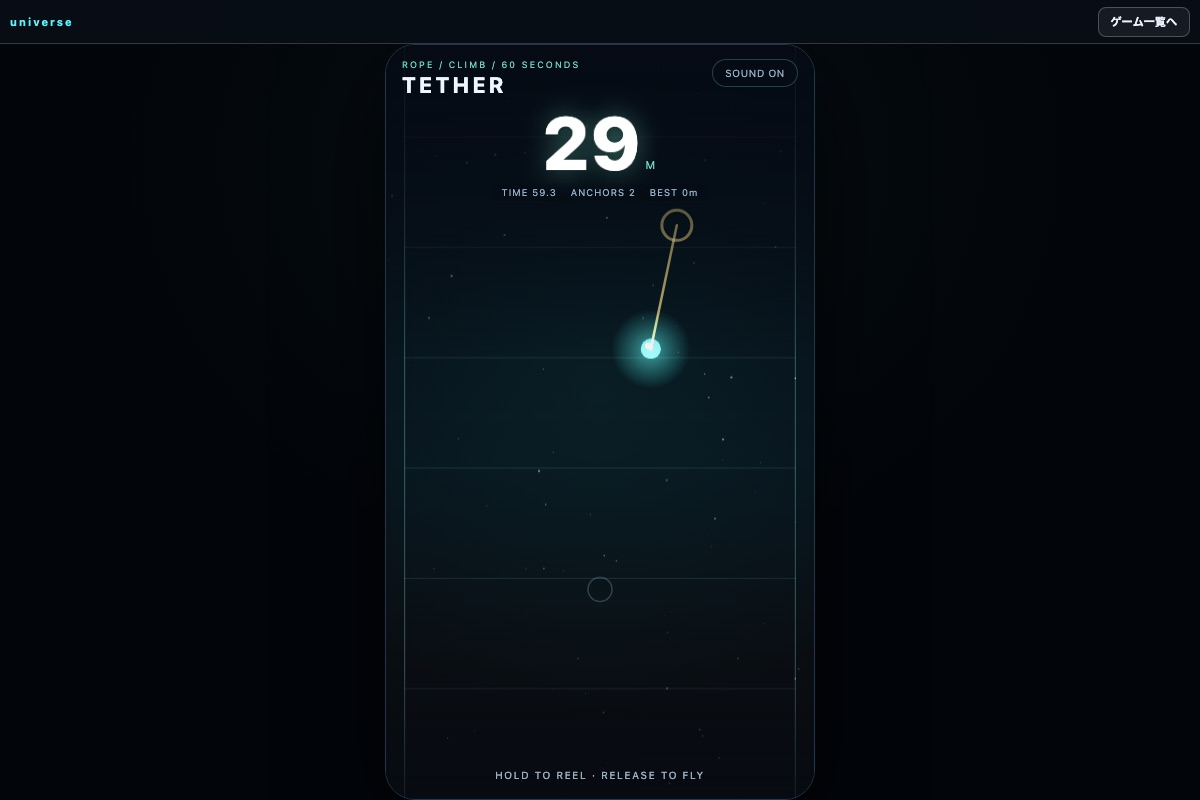
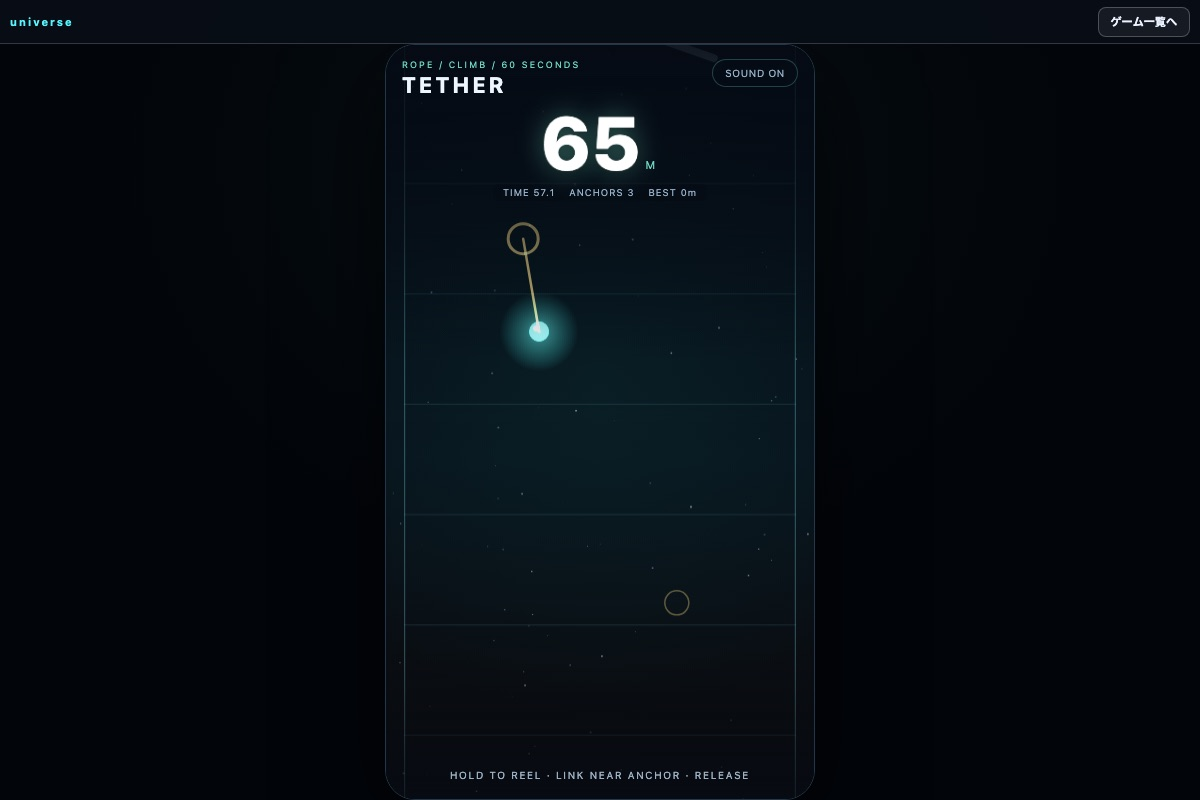
fix: TETHERでホールド中に近くのアンカーへ再リンクできるようにする (#209)

diff --git a/projects/_labs/tether/index.html b/projects/_labs/tether/index.html
@@ -6,7 +6,7 @@
   <meta name="theme-color" content="#050b14" />
   <meta name="description" content="TETHER — hold to reel, release to fly, and climb the tower in 60 seconds." />
   <title>TETHER</title>
-  <link rel="stylesheet" href="style.css?v=20261029-tether3" />
+  <link rel="stylesheet" href="style.css?v=20261030-tether4" />
 </head>
 <body>
   <div id="app">
@@ -29,14 +29,14 @@
         <span id="anchors">ANCHORS 1</span>
         <span id="best">BEST 0</span>
       </div>
-      <p id="hint" class="hint">HOLD TO REEL · RELEASE TO FLY</p>
+      <p id="hint" class="hint">HOLD TO REEL · LINK NEAR ANCHOR · RELEASE</p>
     </div>
 
     <div id="start-overlay" class="overlay visible">
       <div class="start-content">
         <p class="eyebrow">A ONE-BUTTON CLIMB</p>
         <h1>TETHER</h1>
-        <p class="lead">Hold to reel in. Release to fly. Climb the tower before the 60 seconds run out.</p>
+        <p class="lead">Hold near any anchor to link. Keep holding to reel in, then release to fly. Climb the tower before the 60 seconds run out.</p>
         <svg class="start-art" viewBox="0 0 260 180" role="img" aria-label="A ball tethered to anchors">
           <path d="M60 130 L60 55 M160 70 L160 25 M215 145 L215 95" stroke="#2b4a55" stroke-width="2" />
           <circle cx="60" cy="55" r="9" fill="none" stroke="#f4c96b" stroke-width="2" />
@@ -49,7 +49,7 @@
         </svg>
         <button id="btn-start" class="primary big" type="button">START CLIMB</button>
         <button id="btn-sound" class="link-btn" type="button">SOUND: ON</button>
-        <p class="tiny">Hold anywhere · release to launch · best height is saved</p>
+        <p class="tiny">Hold near an anchor to link · release to launch · anchors can be reused</p>
       </div>
     </div>
 
@@ -68,10 +68,10 @@
     </div>
   </div>
 
-  <script src="engine.js?v=20261029-tether3"></script>
-  <script src="audio.js?v=20261029-tether3"></script>
-  <script src="renderer.js?v=20261029-tether3"></script>
-  <script src="game.js?v=20261029-tether3"></script>
+  <script src="engine.js?v=20261030-tether4"></script>
+  <script src="audio.js?v=20261030-tether4"></script>
+  <script src="renderer.js?v=20261030-tether4"></script>
+  <script src="game.js?v=20261030-tether4"></script>
   <script src="../../_shared/game-back.js"></script>
 </body>
 </html>

diff --git a/projects/_labs/tether/engine.js b/projects/_labs/tether/engine.js
@@ -1,7 +1,7 @@
 /* engine.js : TETHER のコアロジック（UI非依存・描画非依存）
  *
  * 縦の塔に浮かぶアンカーへロープでぶら下がり、押して巻き取り、離して飛ぶ。
- * 60秒でどこまで登れるかを競う。アンカーは1回だけ使える。
+ * 60秒でどこまで登れるかを競う。アンカーは何度でも掴み直せる。
  */
 (function (root, factory) {
   'use strict';
@@ -122,7 +122,6 @@
       var bestD = ATTACH_RADIUS;
       for (var i = 0; i < state.anchors.length; i++) {
         var a = state.anchors[i];
-        if (a.used) continue;
         var d = dist(state.player.x, state.player.y, a.x, a.y);
         if (d < bestD) { bestD = d; best = a; }
       }
@@ -135,6 +134,7 @@
 
     function detach() {
       if (!state.tether) return false;
+      var current = state.tether.anchorId;
       state.events.push({ type: 'detach', x: state.player.x, y: state.player.y });
       state.tether = null;
       state.holding = false;
@@ -142,7 +142,7 @@
       var target = null;
       for (var i = 0; i < state.anchors.length; i++) {
         var a = state.anchors[i];
-        if (a.used || a.y <= state.player.y + 40) continue;
+        if (a.id === current || a.y <= state.player.y + 40) continue;
         if (!target || a.y < target.y) target = a;
       }
       if (target) {
@@ -175,6 +175,7 @@
       if (state.phase !== 'playing') return false;
       if (on) {
         state.holding = true;
+        if (!state.tether) attachNearest();
         return true;
       }
       if (state.holding && state.tether) detach();
@@ -213,7 +214,7 @@
         p.vy -= GRAVITY * dt;
         p.x += p.vx * dt;
         p.y += p.vy * dt;
-        attachNearest();
+        if (state.holding) attachNearest();
       }
 
       if (p.x < -WALL_X + p.r) { p.x = -WALL_X + p.r; p.vx = Math.abs(p.vx) * 0.55; }
@@ -252,7 +253,10 @@
 
     function autoStep() {
       if (state.phase !== 'playing') return;
-      if (!state.tether) return;
+      if (!state.tether) {
+        if (!state.holding) setHold(true);
+        return;
+      }
       if (!state.holding) { setHold(true); return; }
       if (state.tether.length <= MIN_LENGTH + 8) setHold(false);
     }

diff --git a/projects/_labs/tether/test-engine.js b/projects/_labs/tether/test-engine.js
@@ -56,6 +56,35 @@ assert(s.tether && s.tether.length < 80, '床救助後に巻き取れない');
 game.reset();
 assert(game.state.phase === 'start' && game.state.tether === null, 'resetでstartに戻らない');
 
+// ホールド中だけ、一定距離内のアンカー（使用済みも含む）に掛かる
+game.start();
+game.state.tether = null;
+game.state.holding = false;
+game.state.attachCooldown = 0;
+game.state.player.x = 70;
+game.state.player.y = 520;
+game.state.player.vx = 0;
+game.state.player.vy = 0;
+game.update(0.1, 1 / 60);
+s = game.getState();
+assert(s.tether === null, 'ホールドしていないのにアンカーへ掛かる');
+game.setHold(true);
+s = game.getState();
+assert(s.tether && s.tether.anchorId === 1, '2個目のアンカーに掛からない');
+assert(s.anchors[1].used === true, '2個目のアンカーがusedにならない');
+game.setHold(false);
+game.state.tether = null;
+game.state.holding = false;
+game.state.attachCooldown = 0;
+game.state.player.x = 0;
+game.state.player.y = 190;
+game.state.player.vx = 0;
+game.state.player.vy = 0;
+game.setHold(true);
+s = game.getState();
+assert(s.tether && s.tether.anchorId === 0, '使用済みアンカーに再び掛からない');
+
+game.reset();
 game.start();
 var t = 0;
 while (game.state.phase === 'playing' && t < 65) {

diff --git a/projects/_labs/tether/renderer.js b/projects/_labs/tether/renderer.js
@@ -97,7 +97,7 @@
         var ax = sx(a.x), ay = sy(a.y);
         if (ay < -60 || ay > height + 60) continue;
         var isTether = state.tether && state.tether.anchorId === a.id;
-        ctx.strokeStyle = a.used && !isTether ? 'rgba(150, 180, 200, 0.25)' : 'rgba(244, 201, 107, 0.8)';
+        ctx.strokeStyle = a.used && !isTether ? 'rgba(244, 201, 107, 0.35)' : 'rgba(244, 201, 107, 0.8)';
         ctx.lineWidth = isTether ? 3 : 1.5;
         ctx.beginPath();
         ctx.arc(ax, ay, isTether ? 15 : 12, 0, Math.PI * 2);

diff --git a/projects/_labs/tether/README.md b/projects/_labs/tether/README.md
@@ -10,19 +10,19 @@
 
 1. **START CLIMB** を押す。
 2. 画面のどこかを押している間、ロープが縮んで体が上へ寄る。
-3. 離すとロープが外れ、次の未使用アンカーへ向かう推力が加わる。
-4. アンカーに近づくと自動で掴み、また巻き取れる。回転バーに当たると弾かれる。
+3. 離すとロープが外れ、次に上のアンカーへ向かう推力が加わる。
+4. ホールド中にアンカーから120px以内へ入ると掴む。使用済みのアンカーにも再リンクできる。回転バーに当たると弾かれる。
 5. 一番下まで落ちると床で止まり、ボトムのアンカー（anchor 0）に自動で再リンクする。時間は進むが、そこから巻き取って再開できる。
 6. 60秒で終了。到達した高さと使用アンカー数が結果に出る。
 
-押し続けるとアンカーを通り過ぎてしまうため、近づいたら離す。どのアンカーを次に使うか、どのタイミングで切り替えるかが判断になります。アンカーは1回だけ使えます。
+押し続けるとアンカーを通り過ぎてしまうため、近づいたら離す。アンカーは何度でも掴み直せます。どのアンカーへ向かい、どのタイミングで切り替えるかが判断になります。
 
 ## ルール
 
 - プレイヤーは1点のボール。重力は常に下向き。
 - ロープは掴んでいるアンカーとの距離を一定に保つ振り子。巻き取ると距離が縮む。
-- 離した瞬間に、次の未使用アンカー方向へ780の推力。ロープは消える。
-- アンカーから120px以内に入ると自動で掴む。掴んだアンカーは再利用不可。
+- 離した瞬間に、次に上のアンカー方向へ780の推力。ロープは消える。
+- ホールド中にアンカーから120px以内へ入ると掴む。使用済みアンカーにも再リンクできる。
 - 高さは開始地点から上方向の距離。落下しても減らない。
 - 一番下には床があり、画面外へは落ちない。テザーなしで床に触れると、自動で anchor 0 に再リンクして停止する。
 - 障害物は3つの回転バー。当たると速度を落とし、横へ弾かれる。
@@ -52,9 +52,9 @@ tether/
 ## 設計の要点
 
 - **テザーは距離拘束**: ボールとアンカーの距離を一定にし、速度を接線方向へ射影する。巻き取り中だけ距離を縮める。振り子の運動と巻き取りを同じ更新で扱う。
-- **離す方向は次のアンカー**: 未使用のうち最も近いアンカーへ780の推力を与える。プレイヤーは方向を選ばず、タイミングだけを選ぶ1ボタン設計。
+- **離す方向は次のアンカー**: 次に上のアンカーへ780の推力を与える。プレイヤーは方向を選ばず、タイミングだけを選ぶ1ボタン設計。
 - **高さは最高地点**: 落下してもスコアは減らない。60秒のどこで高い地点にいるかが結果になる。
-- **自動プレイを同じエンジンで**: `autoStep()` が「掴む→巻く→離す」を繰り返す。スモークテストはUIではなく `window.__GAME__` 経由で同じエンジンを動かす。
+- **自動プレイを同じエンジンで**: `autoStep()` が「ホールドして近くのアンカーを掴む→巻く→離す」を繰り返す。スモークテストはUIではなく `window.__GAME__` 経由で同じエンジンを動かす。
 - **状態と描画を分離**: `getState()` にプレイヤー、アンカー、テザー、障害物、結果をまとめ、rendererは状態だけを描く。
 
 ## テスト
@@ -65,11 +65,11 @@ jsc test-engine.js
 jsc test-smoke.js
 ```
 
-`test-engine.js` は巻き取りでロープが縮むこと、離すとテザーが外れて上向きの速度が出ること、60秒で終了することを検証します。`test-smoke.js` は60秒の自動プレイ後に結果画面と高さ表示が出ることを確認します。リポジトリ全体では `./tools/verify.sh` です。
+`test-engine.js` は巻き取りでロープが縮むこと、ホールド中だけ近くのアンカーへ掛かること、使用済みアンカーへ再リンクできること、離すとテザーが外れて上向きの速度が出ること、床救助と60秒終了を検証します。`test-smoke.js` は60秒の自動プレイ後に結果画面と高さ表示が出ることを確認します。リポジトリ全体では `./tools/verify.sh` です。
 
 ## 既知の制限と次に試すこと
 
-- アンカーは15個で、60秒の自動プレイでは3個しか使わない。上位を狙うには巻き取り時間と離す高さの調整が必要。
+- アンカーは15個で、60秒の自動プレイでは14個使って555mまで登る。使用済みアンカーにも再リンクできるため、巻き取り時間と離す高さの調整でさらに伸ばせる。
 - 障害物は回転バーのみ。動くアンカー、切れるロープ、風、下から迫る床は未実装。
 - 床は anchor 0 に戻るだけで、全アンカーを使い切った後の特別な再スタートはない。
 - ベストは端末の `localStorage` のみで、ランキングやリプレイ共有はない。

diff --git a/docs/learning-log.md b/docs/learning-log.md
@@ -13,6 +13,13 @@
 - 次に試すこと:
 ```
 
+## 2026-10-30 TETHER v1.2（ホールドで再リンク・使用済みアンカーも再利用）
+
+- やったこと: アンカーへの接続を「近づいたら自動」から「ホールド中に120px以内なら接続」に変えた。1個目の救助後も、2個目以降のアンカーへホールドで掛けられる。使用済みアンカーの除外を外し、何度でも掴み直せるようにした。離すときの推力は次に上のアンカー（使用済みも含む）へ向かう。
+- 学んだこと: 自動接続は親切に見えるが、プレイヤーが「今つかむ」と決める操作がないと、なぜ掛かった/掛からないのか分からない。ホールドという既存の入力に接続判断を載せると、巻き取り・移動・再接続が同じボタンで一貫する。使用済みを再利用可能にすると、失敗して落ちても同じアンカーから登り直せる。
+- 詰まったこと: 自動接続のまま使用済みを許可すると、離した直後に同じアンカーへ再び掛かってしまう。ホールド中だけ接続し、離す瞬間は次のアンカーへ推力を出すことで、同じアンカーへのループを抑えた。
+- 次に試すこと: 接続可能なアンカーのハイライト、ホールド開始時の短い照準表示、連続再リンクのコンボ、全アンカー到達後の頂上演出。
+
 ## 2026-10-29 TETHER v1.1（床の再リンク）
 
 - やったこと: 最下部に床を描き、テザーなしで落ちると画面外に出さずに停止し、ボトムの anchor 0 へ自動で再リンクするようにした。床救助は `rescues` と `rescue` イベントで記録し、救助後はそのまま巻き取って再開できる。

diff --git a/docs/game-seeds.md b/docs/game-seeds.md
@@ -22,10 +22,10 @@
 
 ### TETHER
 
-- 状態: v1 実装済み（[`tether/`](../projects/_labs/tether/)）
+- 状態: v1.2 実装済み（[`tether/`](../projects/_labs/tether/)）
 - 一言: アンカーにロープを引っかけて登る、押して巻き取り・離して飛ぶ1ボタンクライミング
 - スルメ要素: 巻き取り続けるとアンカーを通り過ぎるため、近づいたら離す判断が要る。次のアンカーへの推力は自動なので、方向ではなくタイミングと高さを詰める。60秒でどこまで登れるか、ベスト更新を狙う
-- 実装メモ: 15アンカー、回転バー3、重力980、巻き取り250、スナップ780。テザーは距離拘束の振り子で、離すと次の未使用アンカーへ推力。高さは最高地点、60秒で終了。最下部には床があり、テザーなしで落ちると anchor 0 に再リンクして再開できる。WebAudioの効果音、Canvasの塔・星・ロープ・床、ベスト保存、自動プレイのスモークテスト
+- 実装メモ: 15アンカー、回転バー3、重力980、巻き取り250、スナップ780。テザーは距離拘束の振り子で、離すと次に上のアンカーへ推力。ホールド中に120px以内のアンカーへ再リンクでき、使用済みも再利用可能。高さは最高地点、60秒で終了。最下部には床があり、テザーなしで落ちると anchor 0 に再リンクして再開できる。WebAudioの効果音、Canvasの塔・星・ロープ・床、ベスト保存、自動プレイのスモークテスト
 
 ## 保留
 
